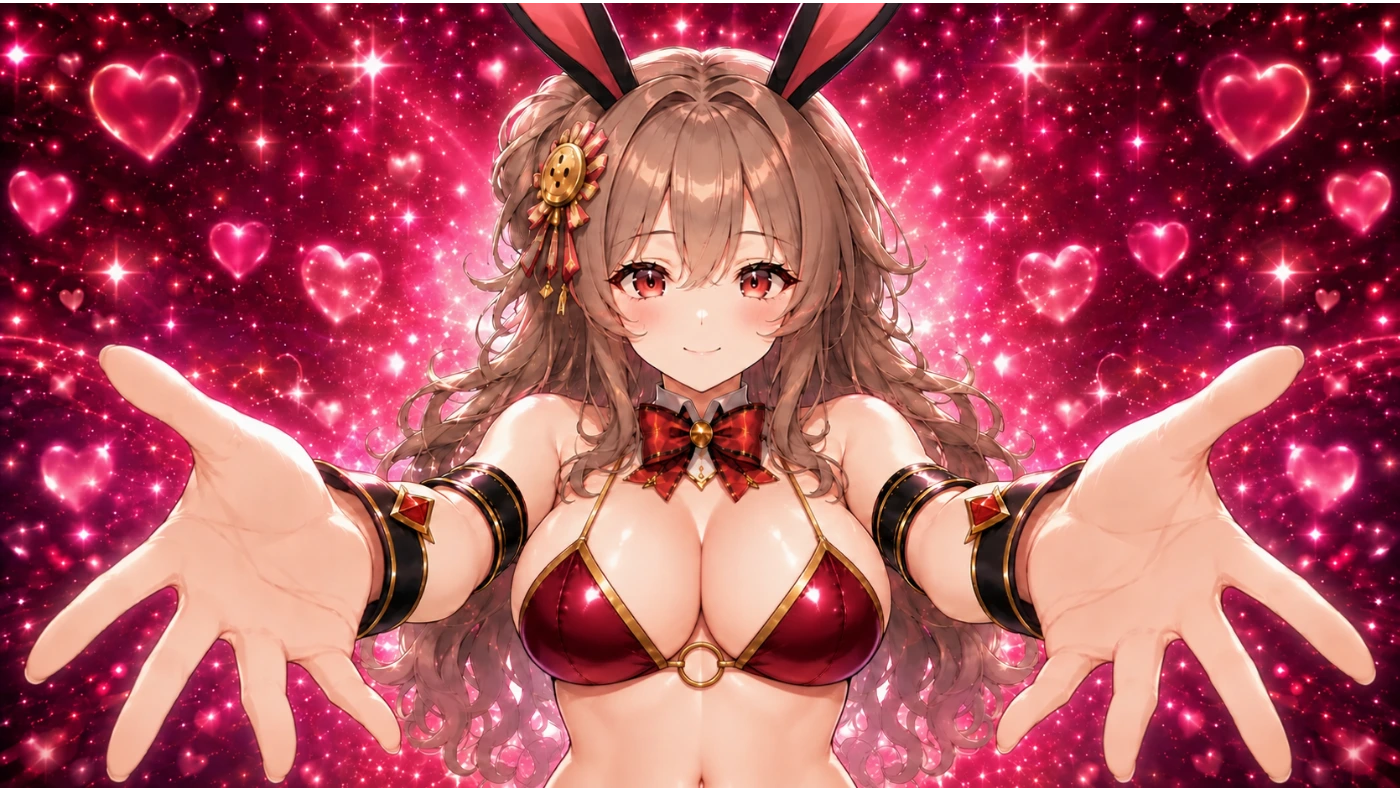
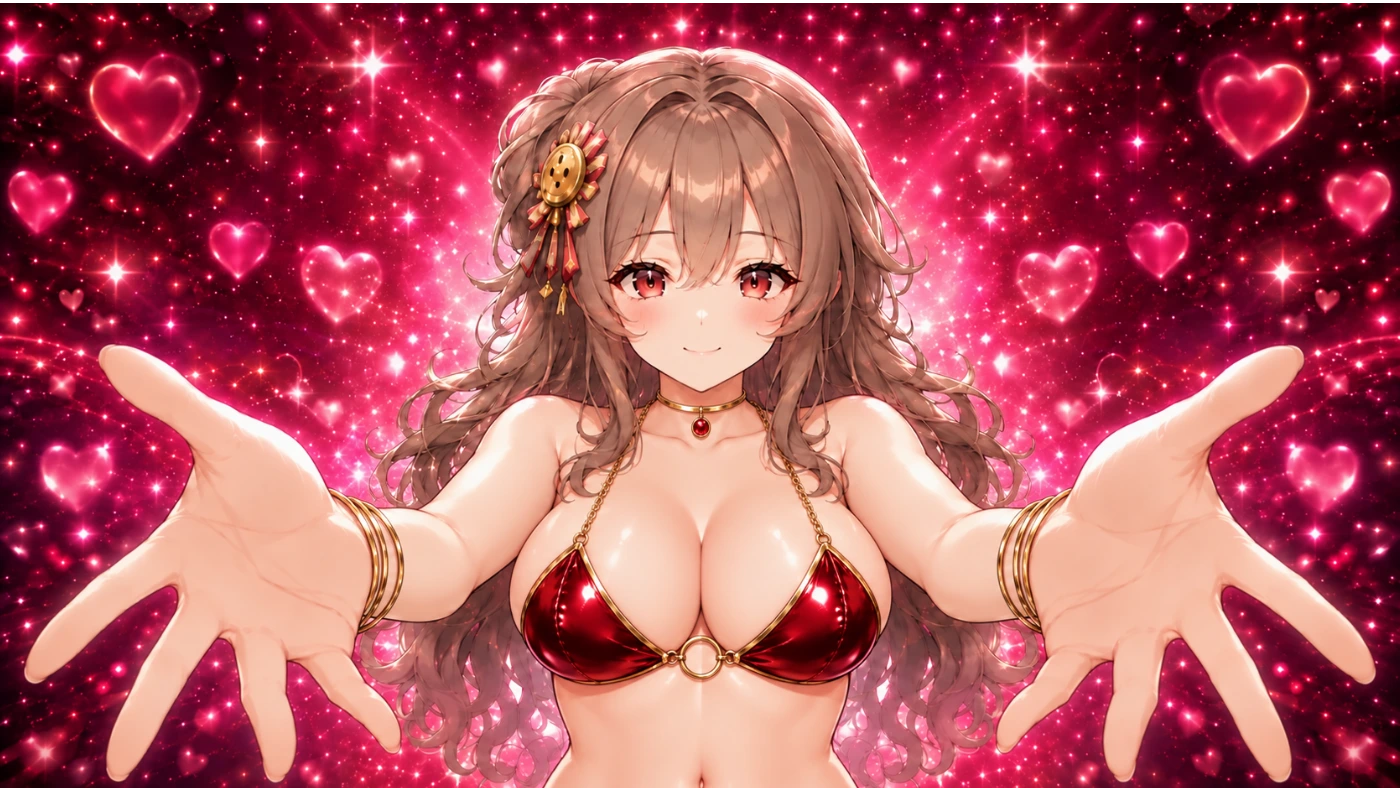
ぱにゅぱにゅ試作：ホルターを作り直し（うさ耳・リボン・腕輪を外し、金のチョーカーと金の腕輪、エナメルのつや、金の鎖）。リングと鎖の位置を元の絵で測り直し、外れたリングの跡はまわりの肌から埋める

diff --git a/docs/design-ref/panyu-mesh.html b/docs/design-ref/panyu-mesh.html
@@ -67,9 +67,9 @@
       gap: { gx: 700, gy: 632, ends: [632, 670, 708, 800], lin: [0.55, 0.06, 0.09], lin2: [0.25, 0.02, 0.04], line: [0.12, 0.02, 0.03] } },
     bikini: { name: '水着', img: 'panyu_bikini_reach.webp', kind: 'strap', ring: 1, feel: { k: 1.4, c: 0.92, ks: 1.45, cs: 0.9, sq: 1.25, kc: 0.85, push: 1.1 }, label: '留め', what: '肩紐と胸のリング',   // 伸びる生地：速く、ぷるんと細かく戻る
       parts: [{ a: [581, 536], b: [621, 458] }, { a: [825, 536], b: [786, 458] }, { c: [702, 655], w: 28, h: 28, ring: 1 }], covers: [], gap: null },
-    halter: { name: 'ホルター', img: 'panyu_halter_reach.webp', kind: 'strap', ring: 1, ringG: [700.4, 664.4, 1.65, 17], bkSkin: 1, strapFill: 1, sw: [6.5, 9.0, 11.0],   /* リングは細く穴が大きい（穴の半径17） */ feel: { k: 1.3, c: 0.95, ks: 1.35, cs: 0.92, sq: 1.2, kc: 0.9, push: 1.08 }, label: '留め', what: '紐と胸の金のリング',   // つやのある水着：少し重めの金のリング
-      parts: [{ a: [580, 541], b: [636, 420] }, { a: [825, 541], b: [767, 420] },   /* 紐は首の方まで消す */ { c: [700, 664], w: 48, h: 48, ring: 1 }], covers: [], gap: null },
-    blue: { name: '水色', img: 'panyu_blue_reach.webp', kind: 'strap', ring: 1, ringG: [701, 657, 0.95], bkSkin: 1, strapFill: 1, sw: [7.0, 9.5, 11.5], feel: { k: 1.45, c: 0.9, ks: 1.5, cs: 0.88, sq: 1.28, kc: 0.82, push: 1.12 }, label: '留め', what: '肩紐と胸の留め金',   // 薄い水着：いちばん速く、ぷるんと
+    halter: { name: 'ホルター', img: 'panyu_halter_reach.webp', kind: 'strap', ring: 1, ringG: [700, 658, 1.6, 14.5], inpaint: 1, bkSkin: 1, strapFill: 1, sw: [5.5, 8.0, 10.5],   /* リングは細く穴が大きい（穴の半径17） */ feel: { k: 1.3, c: 0.95, ks: 1.35, cs: 0.92, sq: 1.2, kc: 0.9, push: 1.08 }, label: '留め', what: '金の鎖と胸の金のリング',   // つやのある水着：少し重めの金のリング
+      parts: [{ a: [580, 537], b: [645, 405] }, { a: [824, 537], b: [755, 405] },   /* 金の鎖は首の方まで消す（元の絵で測った） */ { c: [700, 658], w: 48, h: 48, ring: 1 }], covers: [], gap: null },
+    blue: { name: '水色', img: 'panyu_blue_reach.webp', kind: 'strap', ring: 1, ringG: [701, 657, 0.95], inpaint: 1, bkSkin: 1, strapFill: 1, sw: [7.0, 9.5, 11.5], feel: { k: 1.45, c: 0.9, ks: 1.5, cs: 0.88, sq: 1.28, kc: 0.82, push: 1.12 }, label: '留め', what: '肩紐と胸の留め金',   // 薄い水着：いちばん速く、ぷるんと
       parts: [{ a: [580, 543], b: [636, 420] }, { a: [826, 543], b: [767, 420] }, { c: [701, 657], w: 28, h: 28, ring: 1 }], covers: [], gap: null },
     dress: { name: 'ドレス', img: 'panyu_dress_reach.webp', kind: 'strap', feel: { k: 0.92, c: 0.8, ks: 0.9, cs: 0.85, sq: 1.0, kc: 1.35, push: 1.0 },   // シルク：しなやか。左右がつられて一緒に揺れる
       label: '留め', sw: [5.0, 6.8, 7.8], what: '肩紐と胸元の宝石',
@@ -84,7 +84,7 @@
   OUTFITS.santa.parts[2].fly = { vx: [40, 90], vy: [120, 200], g: 3300, spin: [2, 4], life: 1.8, bounce: 0.22, spark: '#ffd98a', n: 22, shake: 10 };   // バックルはどすんと落ちる
   OUTFITS.bikini.fly = { vx: [220, 380], vy: [950, 1200], g: 2500, spin: [18, 28], life: 1.9, bounce: 0.4, spark: '#ffe9a8', n: 14, shake: 3 };   // リングは高く回る
   OUTFITS.bikini.strapShake = 4;
-  OUTFITS.halter.fly = { ...OUTFITS.bikini.fly, vy: [800, 1000], g: 2800, spark: '#ffd98a', n: 18, shake: 4 }; OUTFITS.halter.strapShake = 4; OUTFITS.halter.ropeCol = ['#a8761f', 'rgba(255,226,150,.85)'];   // 大きな金のリングは少し重く
+  OUTFITS.halter.fly = { ...OUTFITS.bikini.fly, vy: [800, 1000], g: 2800, spark: '#ffd98a', n: 18, shake: 4 }; OUTFITS.halter.strapShake = 4; OUTFITS.halter.ropeCol = ['#a8761f', 'rgba(255,226,150,.85)']; OUTFITS.halter.ropeChain = 1; OUTFITS.halter.ropeG = 3400; OUTFITS.halter.ropeDamp = 0.97;   // 金の鎖は重く、じゃらっと落ちる   // 大きな金のリングは少し重く
   OUTFITS.blue.fly = { ...OUTFITS.bikini.fly, spark: '#e8f6ff' }; OUTFITS.blue.strapShake = 3; OUTFITS.blue.ropeCol = ['#4ea6dc', 'rgba(225,245,255,.85)'];
   Object.assign(OUTFITS.bunny.gap, { flap: [0.12, 1.8], wk: 1, spring: 0 });
   Object.assign(OUTFITS.pajama.gap, { flap: [0.42, 6.5], wk: 1.25, spring: 0, gx: 706, gy: 606, fabY: 650, ramp: 36, vk: [0.75, 0.75, 0], ct: [0, 0], shift: 4, skin: [665, 462, 740, 500], wide: 2.1, gyB: 598, rampB: 64, bkSkin: 1, bkGain: [1.02, 1.14, 1.18],   /* ボタンが外れると服が大きく開く */   /* ボタンが外れると、V字の先の襟の重なりも左右に離れる */   /* V字の中は引き伸ばさない（網目で胸が動くだけ）。開くのはV字の先から下 */ ends: [606, 700, 758, 830] });   // 一番上のボタンの所でつながらない（V字からそのまま開く）   // やわらかい前立てが外へ大きくめくれ、裏地のサテンが幅広くのぞく
@@ -377,7 +377,28 @@
     }
     // 胸のリング：輪とつながる帯の真ん中を、上下の本物の肌でつなぐ（輪の内側も含めて一続きに。半径の向きで写すと帯や金を拾う）
     uniform vec3 uRG;   // リングの中心と大きさ
+    uniform float uInp;
+    float ringMask(vec2 q, float on) {   // 外れたリングと帯の範囲（1＝中）
+      float K = uRG.z; vec2 C = uRG.xy; float r = length(q - C) / K, ax = abs(q.x - C.x) / K;
+      float ringM = on > 0.5 ? 1.0 - smoothstep(16.0, 18.4, r) : 1.0 - smoothstep(15.6, 17.0, r);
+      float bandM = on > 0.5 ? (1.0 - smoothstep(4.8, 6.6, abs(q.y - C.y - 1.4 * K) / K)) * (1.0 - smoothstep(20.0, 25.0, ax)) : 0.0;
+      return max(ringM, bandM);
+    }
+    // 穴のまわりの肌を、16の向きから拾って距離で重みづけして混ぜる（すじも継ぎ目も出ない、なめらかな埋め方）
+    vec3 inpaint(vec2 p, float on) {
+      vec3 acc = vec3(0.0); float ws = 0.0;
+      for (int k = 0; k < 16; k++) {
+        float an = float(k) * 0.3927; vec2 d = vec2(cos(an), sin(an));
+        float t = 2.0;
+        for (int j = 0; j < 24; j++) { if (ringMask(p + d * t, on) < 0.02) break; t += 3.0; }
+        vec3 sc = (tex(p + d * (t + 2.0)) + tex(p + d * (t + 5.0))) * 0.5;
+        float w = (0.02 + skinLike(sc)) / (t * t);   // 肌でない所（カップ・金具）は拾わない
+        acc += sc * w; ws += w;
+      }
+      return acc / ws;
+    }
     vec3 ringOff(vec3 col, vec2 p, float on) {
+      if (uInp > 0.5) { float mm = ringMask(p, on); return mm < 0.001 ? col : mix(col, inpaint(p, on), mm); }
       float K = uRG.z; vec2 C = uRG.xy; float r = length(p - C) / K, ax = abs(p.x - C.x) / K;
       float ringM = on > 0.5 ? 1.0 - smoothstep(16.0, 18.4, r) : 1.0 - smoothstep(15.6, 17.0, r);   // 留まっている間は輪とその影だけ（帯は残す。帯の付け根は別に描く輪の絵がつなぐ）
       float bandM = on > 0.5 ? (1.0 - smoothstep(4.8, 6.6, abs(p.y - C.y - 1.4 * K) / K)) * (1.0 - smoothstep(20.0, 25.0, ax)) : 0.0;   // カップの角の短い端は残る
@@ -387,9 +408,11 @@
       float y0 = min(C.y - 7.0 * K, C.y - hr), y1 = max(C.y + 10.0 * K, C.y + hr);
       float u = clamp((p.y - y0) / (y1 - y0), 0.0, 1.0); u = u * u * (3.0 - 2.0 * u);
       vec3 a0 = vec3(0.0), a1 = vec3(0.0);   // 上下の肌を横に少しぼかして拾う（縦のすじにしない）
-      for (int i = -2; i <= 2; i++) { float o = float(i) * 3.0 * K; a0 += tex(vec2(p.x + o, y0)); a1 += tex(vec2(p.x + o, y1)); }
-      if (uUseBk > 0.5) return mix(col, bkSkin(p), m);   // 本物の肌の絵があれば、そこから写す
-      return mix(col, mix(a0 / 5.0, a1 / 5.0, u), m);
+      float wsum = 0.0;
+      for (int i = -4; i <= 4; i++) { float o = float(i) * 2.5 * K, wt = exp(-float(i * i) / 8.0); a0 += tex(vec2(p.x + o, y0 - 2.0 * K)) * wt; a1 += tex(vec2(p.x + o, y1 + 2.0 * K)) * wt; wsum += wt; }   // 上下の肌を横にやわらかくぼかして拾う（すじにしない）
+      vec3 fl = mix(a0 / wsum, a1 / wsum, u);
+      fl *= 1.0 - 0.18 * exp(-pow((p.x - C.x) / (5.0 * K), 2.0)) * (1.0 - smoothstep(0.0, 1.0, u));   // 谷間の続きの、ほんのりした影
+      return mix(col, fl, m);
     }
     // ---- 身頃の角の折れ返り（ドレス）：角の三角が折れ線で裏返り、表の跡には下の肌、折れた先には裏地が見える ----
     uniform vec4 uFA0, uFA1, uFN, uFO; uniform vec2 uFold;   // 角の先（左右）、胸元の縁の向き（左xy・右zw）、脇の縁の向き、折れ具合（左・右、長さ）
@@ -644,7 +667,7 @@
     if (OF.fold) { const f = OF.fold; gl.uniform4f(U('uFA0'), ...f.apex[0], foldA[1], 0); gl.uniform4f(U('uFA1'), ...f.apex[1], 0, 0); gl.uniform4f(U('uFN'), ...f.neck[0], ...f.neck[1]); gl.uniform4f(U('uFO'), ...f.out[0], ...f.out[1]); gl.uniform2f(U('uFold'), foldA[0], f.len); } else gl.uniform2f(U('uFold'), 0, 0);
     gl.uniform1f(U('uFabY'), OF.gap ? (OF.gap.fabY || OF.gap.gy) : 0); gl.uniform1f(U('uDbg'), +(new URLSearchParams(location.search).get('dbg') === '1')); gl.uniform2f(U('uCt'), ...((OF.gap && OF.gap.ct) || [0, 0.5])); gl.uniform1f(U('uUseBk'), bkReady ? 1 : 0); gl.uniform3f(U('uBkGain'), ...(OF.bkGain || (OF.gap && OF.gap.bkGain) || [1, 1, 1])); gl.uniform1f(U('uWide'), (OF.gap && OF.gap.wide) || 1); gl.uniform1f(U('uRamp'), (OF.gap && (OF.gap.bkSkin && bkReady ? OF.gap.rampB : OF.gap.ramp)) || 24); gl.uniform1f(U('uShift'), (OF.gap && OF.gap.shift) || 0); gl.uniform1f(U('uGs'), (OF.gap && OF.gap.shear) || 0); gl.uniform4f(U('uSkin'), ...((OF.gap && OF.gap.skin) || [0, 0, 0, 0])); gl.uniform3f(U('uVk'), ...((OF.gap && OF.gap.vk) || [0, 0, 0]));
     gl.uniform2f(U('uFlap'), ...((OF.gap && OF.gap.flap) || [0.12, 1.8]));
-    gl.uniform1f(U('uJewel'), +!!OF.jewel); gl.uniform1f(U('uRing'), +!!OF.ring); gl.uniform3f(U('uRG'), ...RING);
+    gl.uniform1f(U('uJewel'), +!!OF.jewel); gl.uniform1f(U('uRing'), +!!OF.ring); gl.uniform3f(U('uRG'), ...RING); gl.uniform1f(U('uInp'), +!!OF.inpaint);
     gl.uniform1f(U('uSF'), +(OUTFIT === 'dress' || !!OF.strapFill)); gl.uniform3f(U('uSW'), ...(OF.sw || [4.6, 6.6, 8.0]));   // 髪の上を通る紐は、両側の色（髪・肌）でつなぐ消し方
     if (STRAP) { gl.uniform4f(U('uSA'), ...BTNS[0].a, ...BTNS[0].b); gl.uniform4f(U('uSB'), ...BTNS[1].a, ...BTNS[1].b); }
     const r0 = restOf(0), r1 = restOf(1);
@@ -746,6 +769,12 @@
         fc.lineCap = 'round';
         fc.strokeStyle = 'rgba(60,20,20,.22)'; fc.lineWidth = 3.4 * view.s; path(1.6 * view.s); fc.stroke();
         const rc = OF.ropeCol || ['#1b1113', 'rgba(150,95,105,.5)'];   // 紐の色とつや
+        if (OF.ropeChain) {   // 金の鎖：輪がつながって見えるよう、点線を2本ずらして重ねる
+          fc.lineCap = 'round'; fc.strokeStyle = 'rgba(60,30,0,.35)'; fc.lineWidth = 3.6 * view.s; path(1.4 * view.s); fc.stroke();
+          fc.setLineDash([3.2 * view.s, 1.6 * view.s]); fc.strokeStyle = '#8a5a12'; fc.lineWidth = 3.2 * view.s; path(0); fc.stroke();
+          fc.lineDashOffset = 2.4 * view.s; fc.strokeStyle = '#f2c766'; fc.lineWidth = 1.8 * view.s; path(-0.4 * view.s); fc.stroke();
+          fc.setLineDash([]); fc.lineDashOffset = 0; continue;
+        }
         fc.strokeStyle = rc[0]; fc.lineWidth = 2.7 * view.s; path(0); fc.stroke();
         fc.strokeStyle = rc[1]; fc.lineWidth = 0.8 * view.s; path(-0.5 * view.s); fc.stroke();
         continue;
